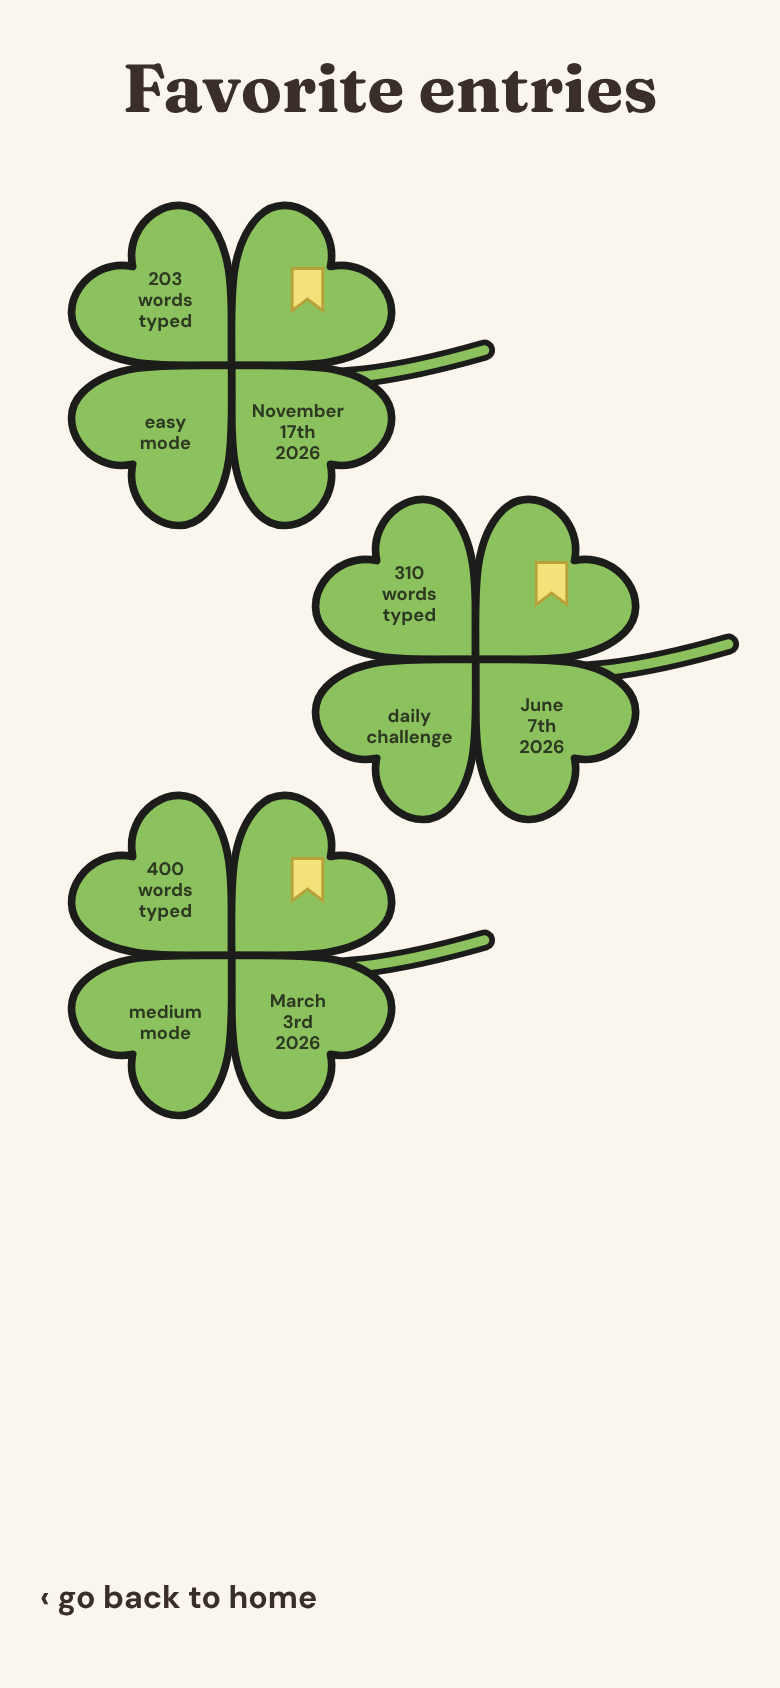
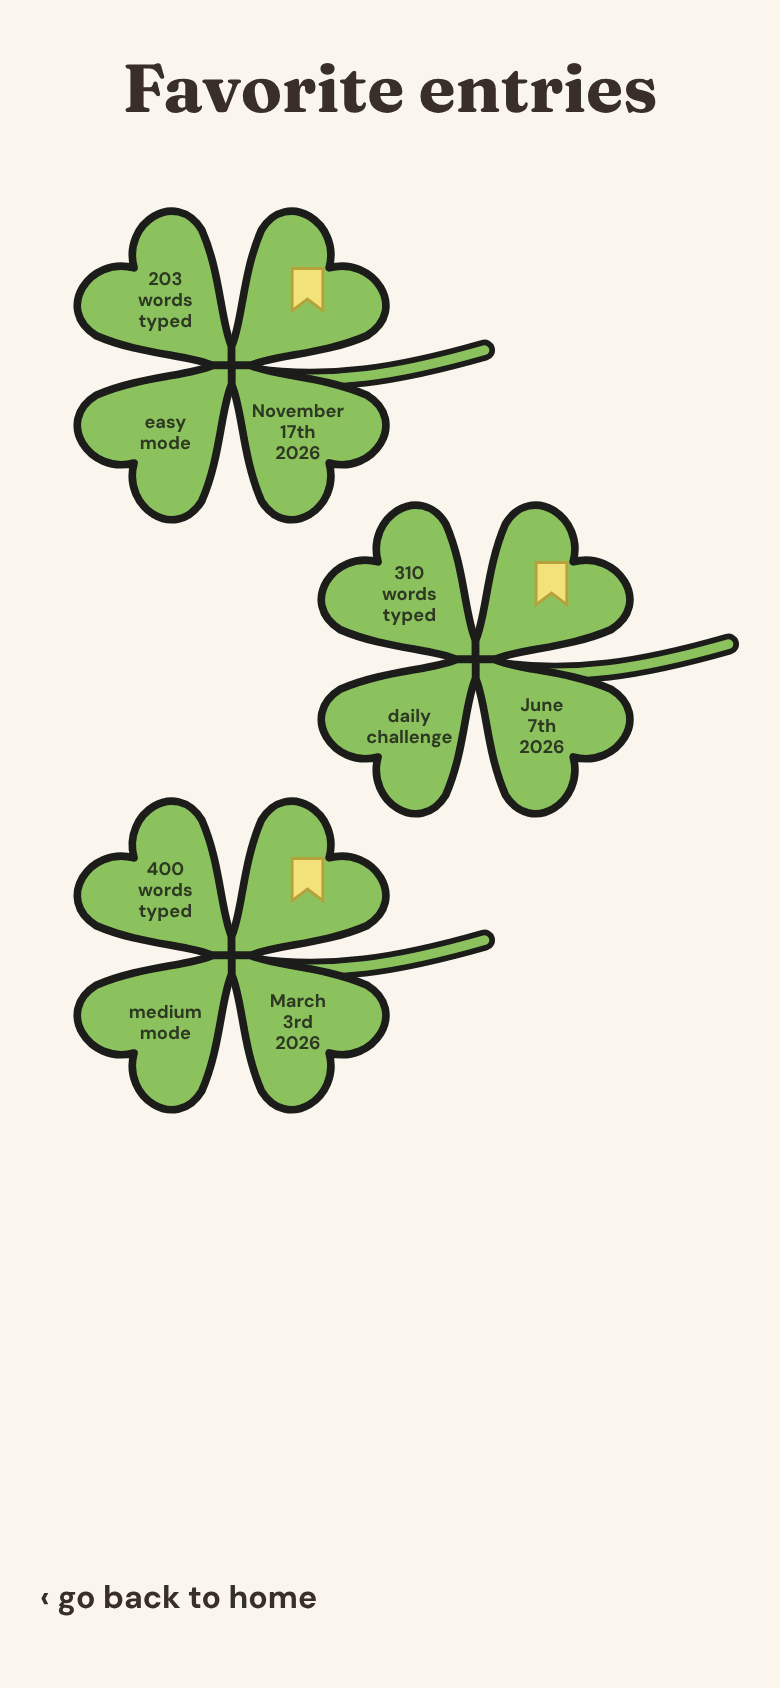
Join the clover leaves at the base and let them spread apart

diff --git a/app/app.js b/app/app.js
@@ -463,8 +463,8 @@
   const MONTHS = ['January', 'February', 'March', 'April', 'May', 'June', 'July', 'August', 'September', 'October', 'November', 'December'];
   function ordinal(n) { const s = ['th', 'st', 'nd', 'rd'], v = n % 100; return n + (s[(v - 20) % 10] || s[v] || s[0]); }
   function longDate(key) { const [Y, M, D] = key.split('-').map(Number); return [MONTHS[M - 1], ordinal(D), String(Y)]; }
-  // a heart with its point in the middle; its sides run along the neighboring leaves so they touch
-  const LEAF = 'M0 0 C -24 -24 -45 -42 -45 -65 C -45 -87 -13 -93 0 -73 C 13 -93 45 -87 45 -65 C 45 -42 24 -24 0 0 Z';
+  // a heart: the leaves are joined at the base in the middle, then spread apart
+  const LEAF = 'M0 0 L -7 -7 C -12 -20 -30 -38 -39 -61 C -45 -86 -12 -93 0 -72 C 12 -93 45 -86 39 -61 C 30 -38 12 -20 7 -7 Z';
   function leafText(angle, lines) {
     const r = (angle * Math.PI) / 180, x = 100 + Math.sin(r) * 49, y = 100 - Math.cos(r) * 49;
     const start = y - ((lines.length - 1) * 11) / 2 + 3.5;

diff --git a/app/sw.js b/app/sw.js
@@ -1,6 +1,6 @@
 // Lets the app open even without internet, after the first visit.
 // When you change any app file, bump the version number so phones get the update.
-const CACHE = 'wpa-v18';
+const CACHE = 'wpa-v19';
 const FILES = ['./', 'index.html', 'styles.css', 'data.js', 'app.js', 'cloud.js', 'manifest.webmanifest',
   'icons/icon-192.png', 'icons/icon-512.png', 'icons/apple-touch-icon.png'];
 
